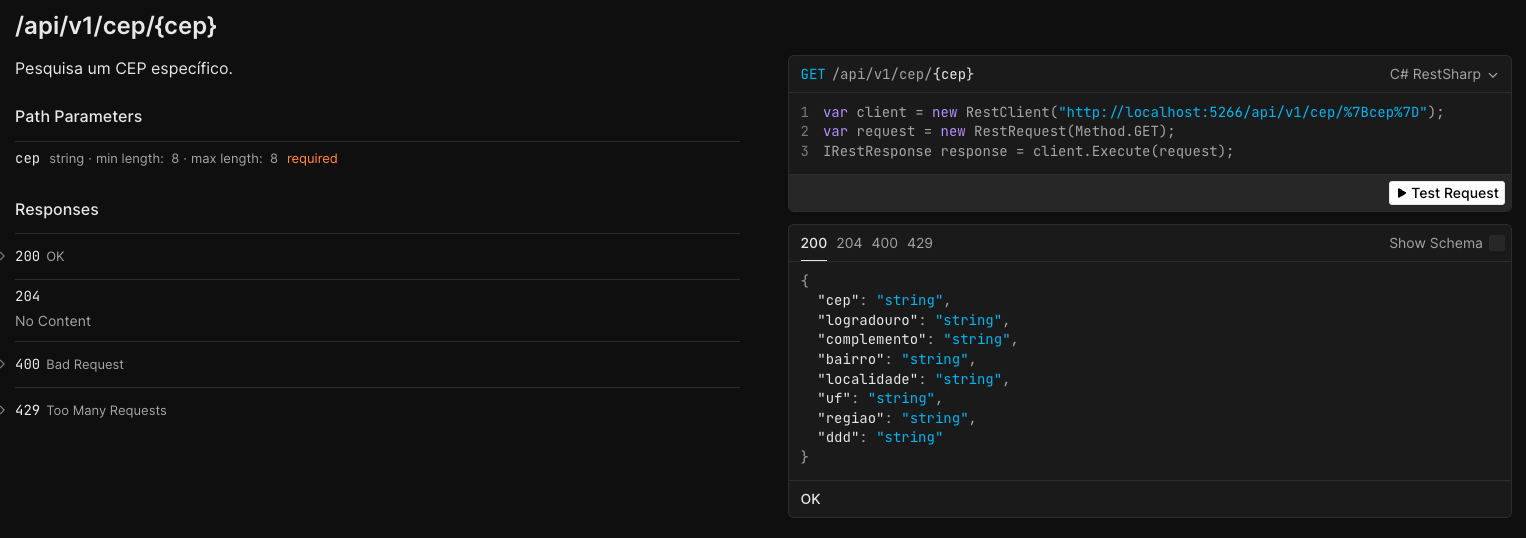
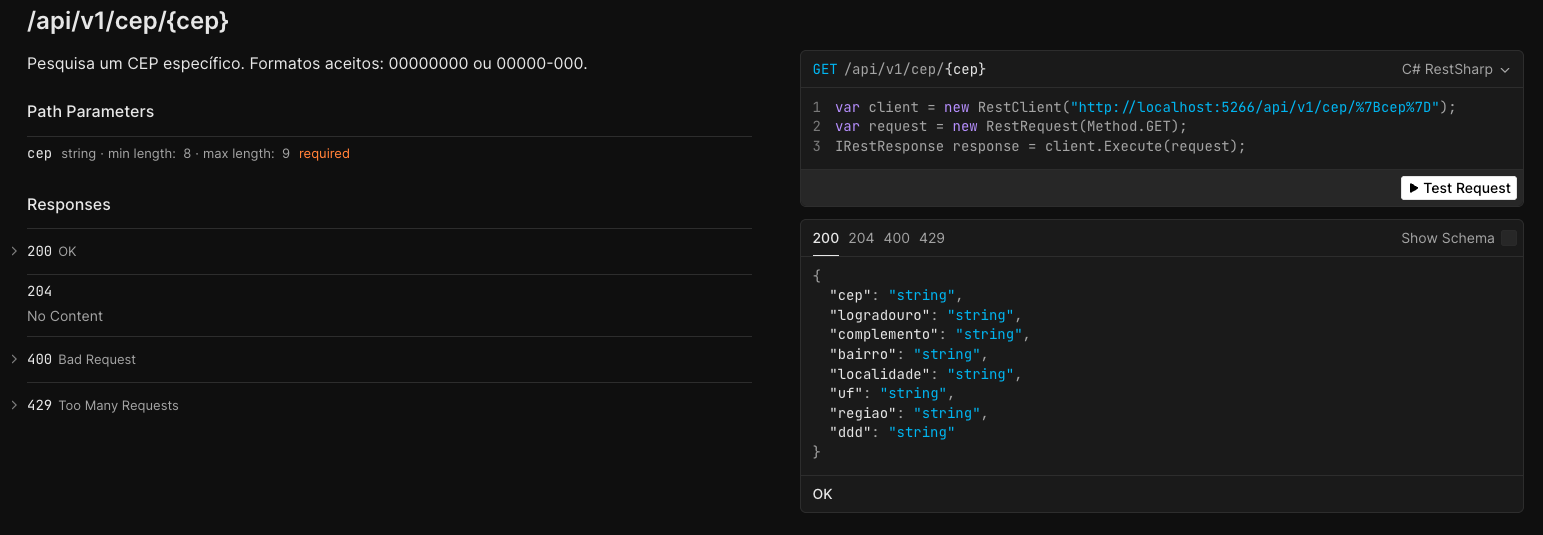
add redis for cache and update docs

diff --git a/src/SoftCep.Api/Controllers/v1/CepController.cs b/src/SoftCep.Api/Controllers/v1/CepController.cs
@@ -16,12 +16,12 @@ public sealed class CepController : ControllerBase
     [EnableRateLimiting("PerIp20Rps")]
     [MapToApiVersion("1.0")]
     [HttpGet("{cep}")]
-    [EndpointDescription("Pesquisa um CEP específico.")]
+    [EndpointDescription("Pesquisa um CEP específico. Formatos aceitos: 00000000 ou 00000-000.")]
     [ProducesResponseType(StatusCodes.Status429TooManyRequests)]
     [ProducesResponseType(typeof(CepResult), StatusCodes.Status200OK, "application/json")]
     [ProducesResponseType(typeof(ProblemDetails), StatusCodes.Status400BadRequest, "application/json")]
     [ProducesResponseType(StatusCodes.Status204NoContent)]
-    public async Task<IActionResult> GetCepAsync([FromRoute, CepValidation, MinLength(8), MaxLength(8)] string cep,
+    public async Task<IActionResult> GetCepAsync([FromRoute, CepValidation, MinLength(8), MaxLength(9)] string cep,
         [FromServices] GetCepQueryHandler handler,
         CancellationToken cancellationToken = default)
     {

diff --git a/src/SoftCep.Api/Program.cs b/src/SoftCep.Api/Program.cs
@@ -35,6 +35,10 @@ builder.Services.AddApiVersioning(options =>
 });
 
 builder.Services.Configure<RouteOptions>(options => options.LowercaseUrls = true);
+builder.Services.AddStackExchangeRedisCache(options =>
+{
+    options.Configuration = builder.Configuration.GetConnectionString("Redis");
+});
 builder.Services.AddHybridCache();
 builder.Services.AddHealthChecks();
 builder.Services.AddOptions<ViaCepClientOptions>().BindConfiguration("Infrastructure:ViaCep");
